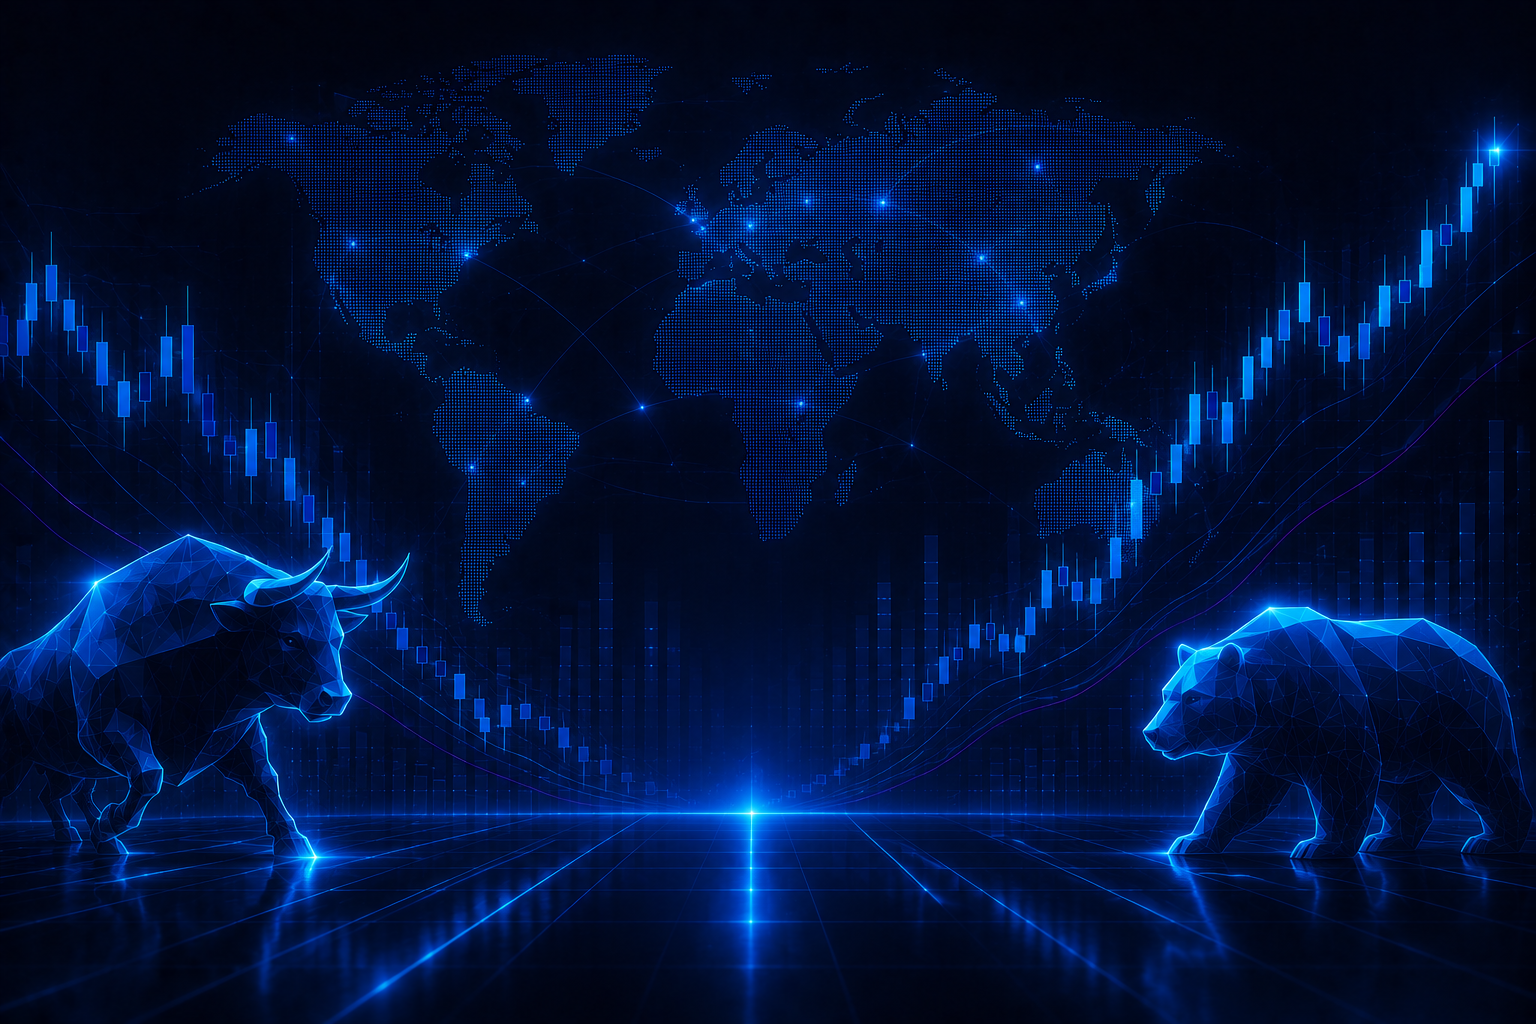
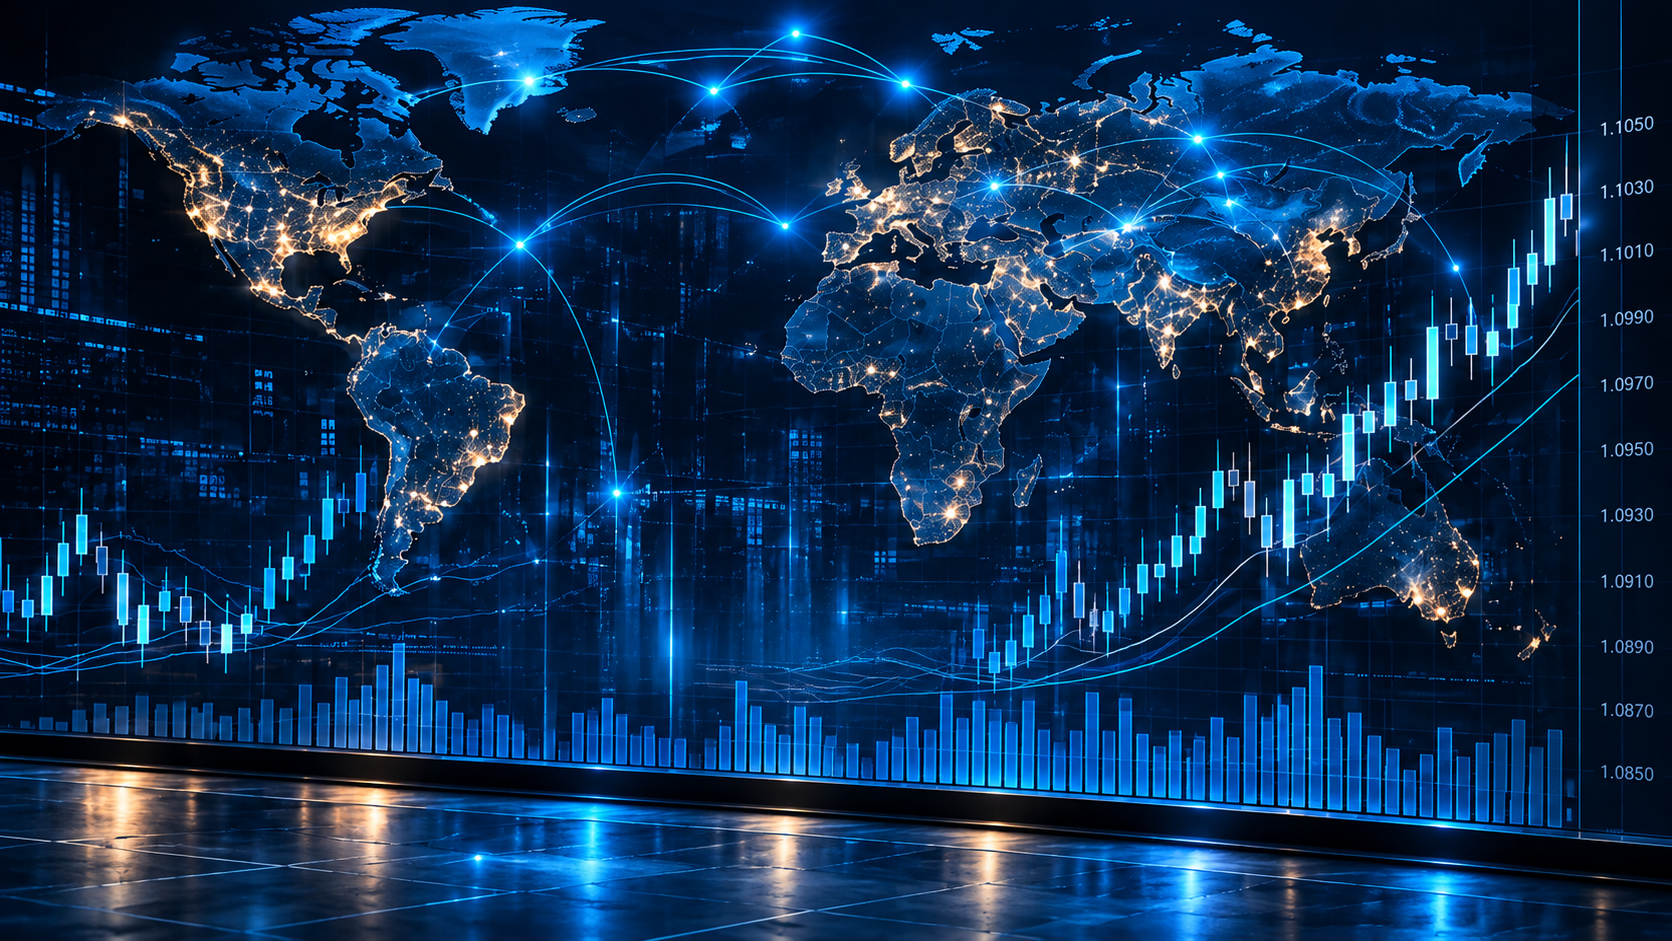
FX TRADE - clean login wallpaper

diff --git a/app/page.tsx b/app/page.tsx
@@ -194,10 +194,16 @@ export default async function HomePage() {
   ];
   return (
     <main className="relative min-h-screen overflow-x-hidden bg-[#03172b] text-white">
+      <div aria-hidden="true" className="pointer-events-none absolute inset-0 z-0">
+        <div className="absolute inset-0 bg-[linear-gradient(180deg,rgba(2,15,32,.38),rgba(2,15,32,.60))]" />
+        <div className="absolute inset-y-0 left-0 w-[48%] bg-[url('/home/side-left.png')] bg-left-top bg-repeat-y opacity-60" />
+        <div className="absolute inset-y-0 right-0 w-[48%] bg-[url('/home/side-right.png')] bg-right-top bg-repeat-y opacity-60" />
+        <div className="absolute inset-0 bg-[radial-gradient(ellipse_at_center,rgba(3,23,43,.15)_0%,rgba(3,23,43,.52)_80%)]" />
+      </div>
       <div aria-hidden className="pointer-events-none absolute inset-0 bg-[radial-gradient(ellipse_at_50%_10%,rgba(12,82,130,.30),transparent_48%),linear-gradient(180deg,#061b30_0%,#031326_100%)]" />
       <div aria-hidden className="pointer-events-none absolute inset-0 opacity-20" style={{backgroundImage:"linear-gradient(90deg,transparent 49%,rgba(56,189,248,.12) 50%,transparent 51%)",backgroundSize:"88px 100%"}} />
       <header className="relative z-30 border-b border-cyan-300/15 bg-[#041a2e]/95 backdrop-blur-xl">
-        <div className="mx-auto flex min-h-[80px] max-w-[1390px] items-center justify-between gap-3 px-4 md:px-8">
+        <div className="mx-auto flex min-h-[80px] max-w-[1680px] items-center justify-between gap-3 px-4 md:px-8">
           <Link href="/" className="flex shrink-0 items-center gap-2" aria-label="FX TRADE">
             <span className="text-[40px] font-black italic leading-none tracking-[-.12em] text-white">F<span className="bg-gradient-to-br from-cyan-300 to-blue-600 bg-clip-text text-transparent">X</span></span>
             <span className="pl-2"><span className="block text-[17px] font-semibold tracking-[.22em]">TRADE</span><span className="block text-[7px] tracking-[.12em] text-slate-400">PROFESSIONAL TRADING</span></span>
@@ -212,7 +218,7 @@ export default async function HomePage() {
         </div>
         <nav className="flex justify-center gap-5 overflow-x-auto border-t border-white/5 px-4 py-2 text-[11px] text-slate-300 lg:hidden"><a href="#scanner">{t.scannerShort}</a><a href="#strategie">{t.strategies}</a><a href="#edukacja">{t.education}</a><Link href="/trading-room">Trading Room</Link></nav>
       </header>
-      <div className="relative z-10 mx-auto max-w-[1390px] px-4 pb-8 md:px-8">
+      <div className="relative z-10 mx-auto w-full max-w-[1680px] px-4 pb-8 md:px-8">
         <section className="relative grid min-h-[450px] items-center gap-8 py-10 lg:grid-cols-[1.04fr_.96fr] lg:py-14">
           <div className="relative z-10">
             <div className="mb-5 inline-flex rounded-full border border-sky-300/25 bg-sky-200/5 px-4 py-2 text-[10px] uppercase tracking-[.16em] text-slate-300">{t.badge}</div>

diff --git a/app/login/page.tsx b/app/login/page.tsx
@@ -25,7 +25,7 @@ export default function LoginPage() {
   return <main className="relative min-h-[100dvh] overflow-x-hidden bg-[#020e21] text-white">
     <div className="pointer-events-none fixed inset-0 z-0 bg-cover bg-center" style={{backgroundImage:"linear-gradient(90deg,rgba(1,9,24,.25),rgba(1,9,24,.08),rgba(1,9,24,.25)),url('/login/fxtrade-login-wallpaper.png')"}}/>
     <div className="relative z-10 flex min-h-[100dvh] items-center justify-center px-4 py-10 sm:py-14">
-      <div className="w-full max-w-[540px] rounded-[24px] border border-cyan-300/75 bg-[linear-gradient(145deg,rgba(4,30,65,.89),rgba(1,14,34,.94))] p-5 shadow-[0_0_0_1px_rgba(56,189,248,.12),0_0_65px_rgba(0,174,255,.32),0_28px_90px_rgba(0,0,0,.5)] backdrop-blur-2xl sm:p-9">
+      <div className="w-full max-w-[560px] rounded-[24px] border border-cyan-300/75 bg-[linear-gradient(145deg,rgba(4,30,65,.89),rgba(1,14,34,.94))] p-5 shadow-[0_0_0_1px_rgba(56,189,248,.12),0_0_65px_rgba(0,174,255,.32),0_28px_90px_rgba(0,0,0,.5)] backdrop-blur-2xl sm:p-9">
         <div className="mb-7 flex justify-center"><img src="/fx-trade-professional-trading.png" alt="FX Trade" className="h-auto w-full max-w-[310px] object-contain drop-shadow-[0_0_25px_rgba(37,99,235,.35)]"/></div>
 
         {mode==="password" && <>
